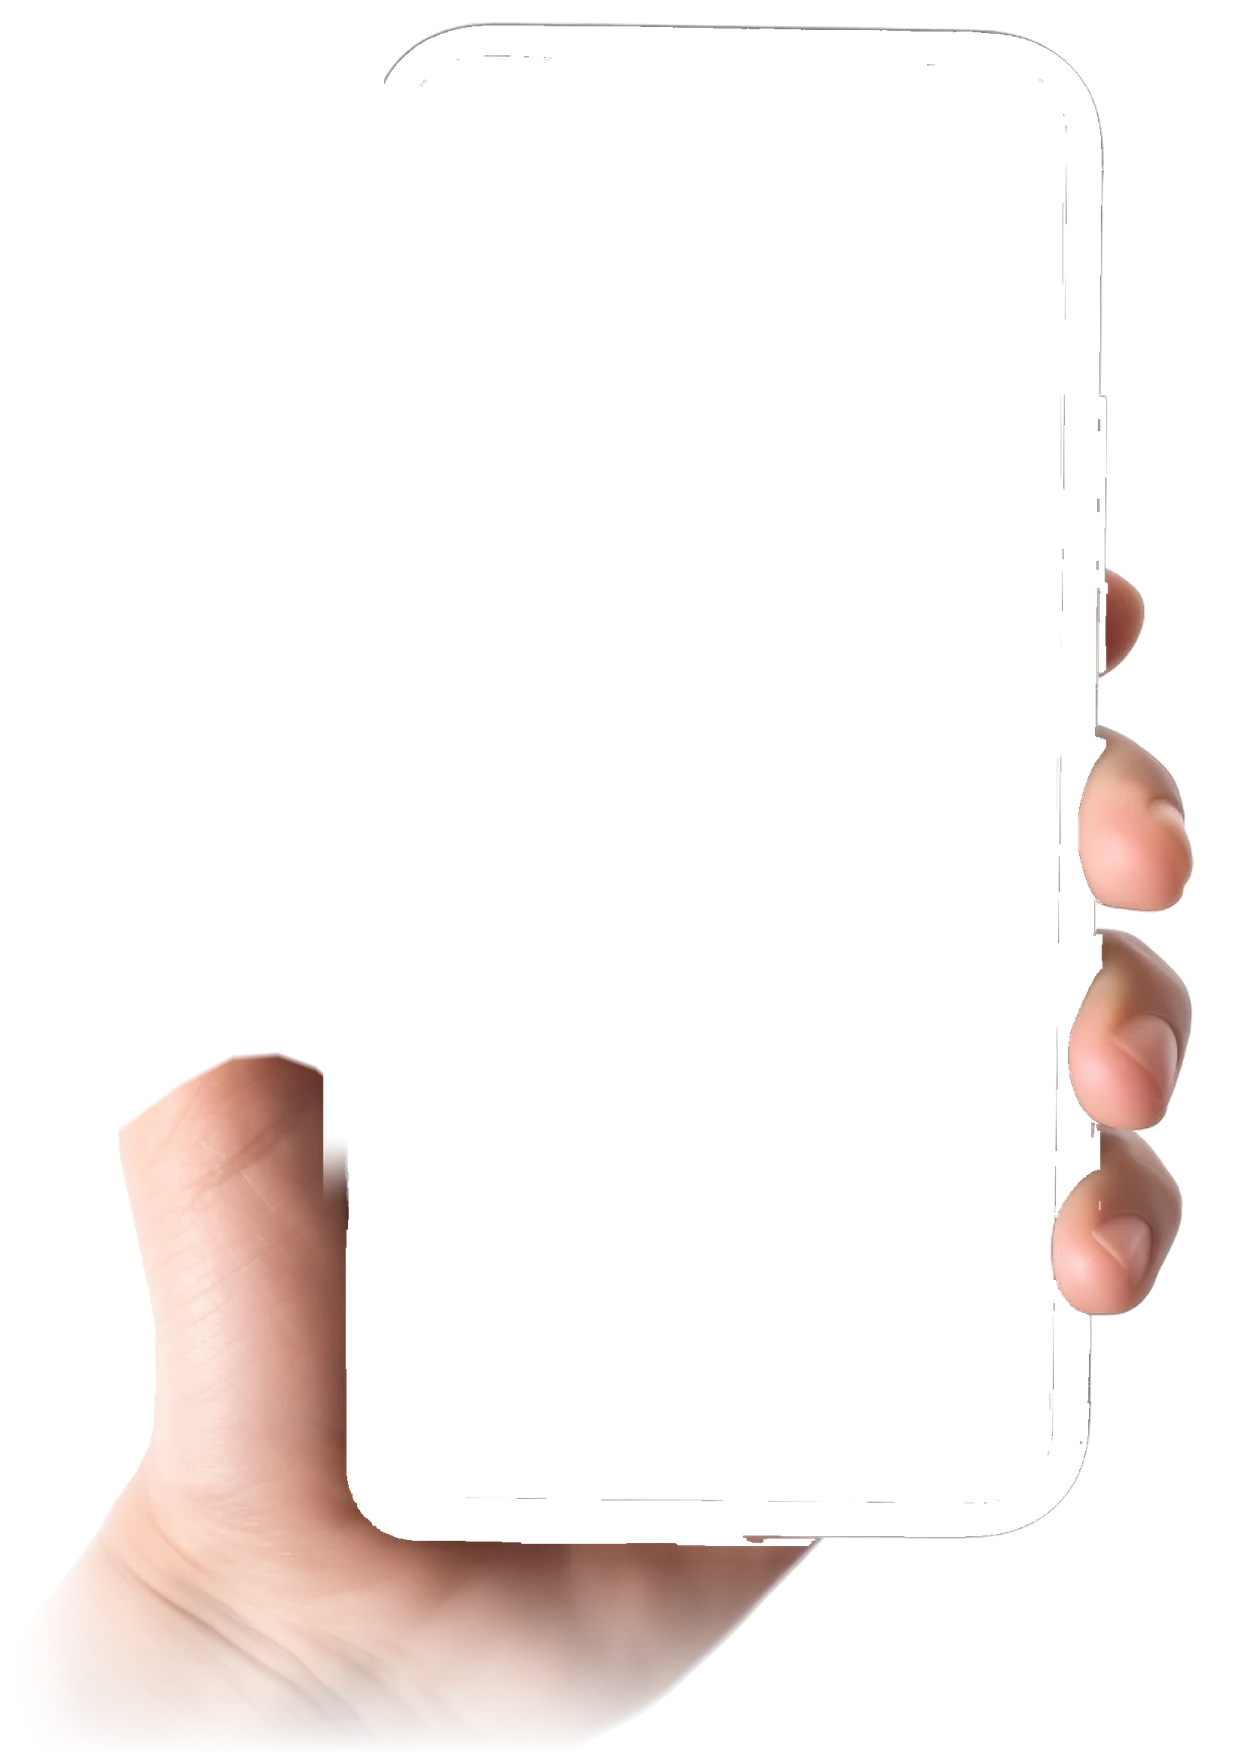
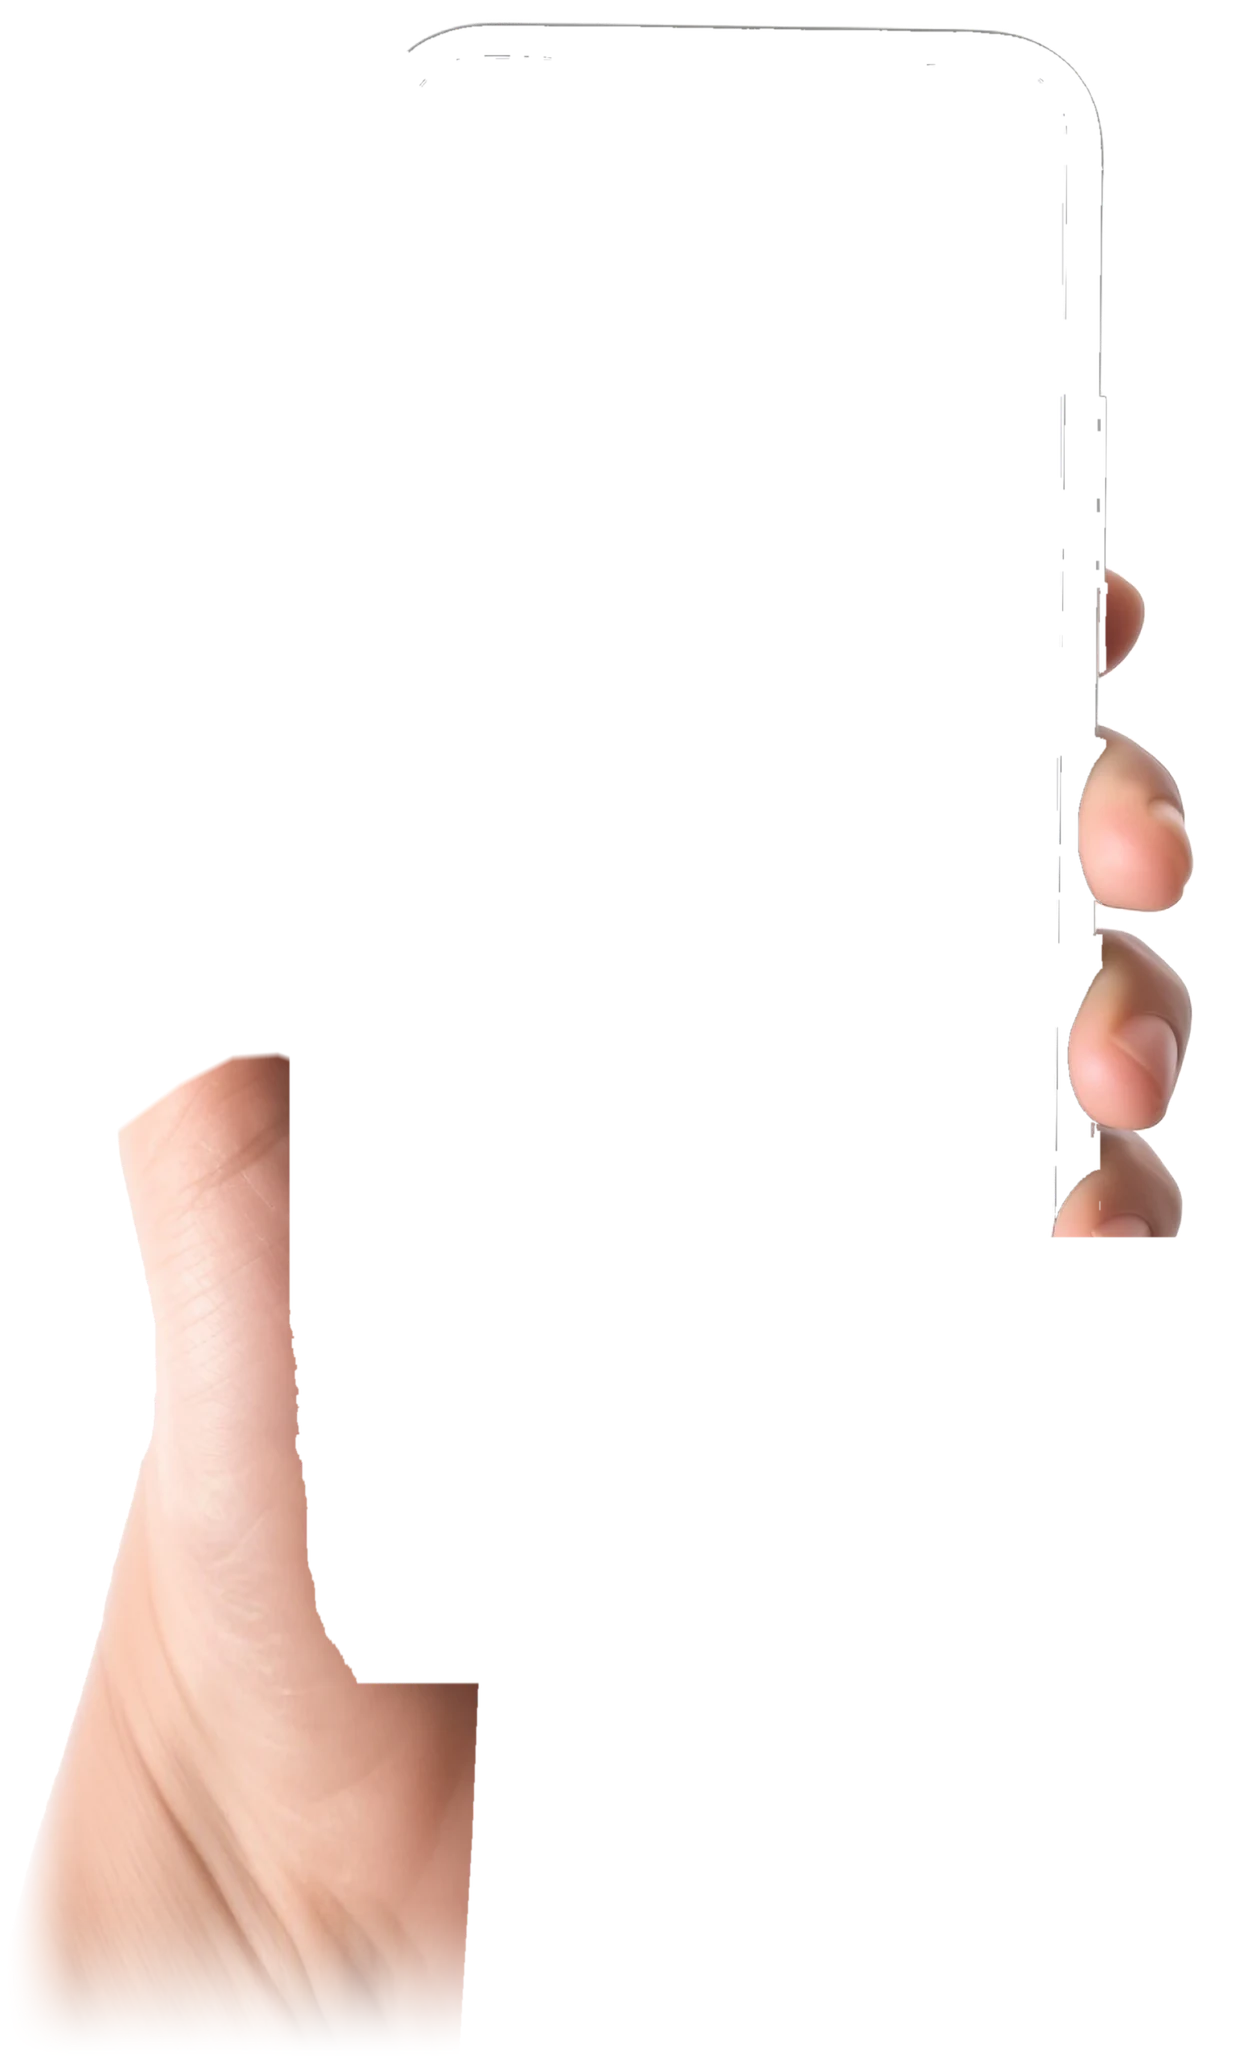
Activity cards start at the bottom of the phone and slide behind the wrist and forearm

diff --git a/index.html b/index.html
@@ -22,7 +22,7 @@
 <link rel="preconnect" href="https://fonts.googleapis.com">
 <link rel="preconnect" href="https://fonts.gstatic.com" crossorigin>
 <link rel="stylesheet" href="https://fonts.googleapis.com/css2?family=Hanken+Grotesk:wght@400;500;600;700&family=Montserrat:wght@600&display=swap">
-<link rel="stylesheet" href="styles.css?v=30">
+<link rel="stylesheet" href="styles.css?v=33">
 <script type="application/ld+json">
 {"@context":"https://schema.org","@type":"SoftwareApplication","name":"OfficeSwap","operatingSystem":"iOS","applicationCategory":"BusinessApplication","description":"Office owners offer their office on the days they're away, and OfficeSwap assigns it automatically to someone who needs one, first come, first served.","url":"https://officeswap.co/","image":"https://officeswap.co/images/og.jpg?v=2"}
 </script>
@@ -58,9 +58,9 @@
   <div class="hero-video">
     <div class="hold">
       <video src="video/request-flow.mp4?v=5" poster="video/request-flow.jpg?v=5" width="604" height="1312" autoplay muted playsinline preload="auto" aria-label="A short video of someone holding an iPhone and requesting an office in OfficeSwap with their thumb: they tap Request an Office, pick Tuesday and Wednesday, and get an office for both days."></video>
-      <img class="hold-phone" src="images/hand/phone.webp?v=5" alt="" width="1245" height="1762">
-      <img class="hold-still" src="images/hand/handhold.webp?v=14" alt="" width="1245" height="1762">
-      <canvas class="hold-hand" aria-hidden="true" data-thumb="images/hand/thumb.webp?v=4" data-palm="images/hand/palm.webp?v=4"></canvas>
+      <img class="hold-phone" src="images/hand/phone.webp?v=5" alt="" width="1245" height="2062">
+      <img class="hold-still" src="images/hand/handhold.webp?v=25" alt="" width="1245" height="2062">
+      <canvas class="hold-hand" aria-hidden="true" data-thumb="images/hand/thumb.webp?v=5" data-palm="images/hand/palm.webp?v=15"></canvas>
     </div>
     <button type="button" class="replay" hidden aria-label="Play the video again"><svg viewBox="0 0 24 24" fill="none" stroke="currentColor" stroke-width="2" stroke-linecap="round" stroke-linejoin="round" aria-hidden="true"><path d="M3.5 12a8.5 8.5 0 1 0 2.6-6.1"/><path d="M3.5 4v4.5H8"/></svg></button>
   </div>
@@ -254,9 +254,9 @@
   <div class="hero-video reel-bottom">
     <div class="hold">
       <video src="video/request-flow.mp4?v=5" poster="video/request-flow.jpg?v=5" width="604" height="1312" muted playsinline preload="metadata" data-play="in-view" aria-label="The same short video: someone holding an iPhone and requesting an office in OfficeSwap with their thumb: they tap Request an Office, pick Tuesday and Wednesday, and get an office for both days."></video>
-      <img class="hold-phone" src="images/hand/phone.webp?v=5" alt="" width="1245" height="1762">
-      <img class="hold-still" src="images/hand/handhold.webp?v=14" alt="" width="1245" height="1762">
-      <canvas class="hold-hand" aria-hidden="true" data-thumb="images/hand/thumb.webp?v=4" data-palm="images/hand/palm.webp?v=4"></canvas>
+      <img class="hold-phone" src="images/hand/phone.webp?v=5" alt="" width="1245" height="2062">
+      <img class="hold-still" src="images/hand/handhold.webp?v=25" alt="" width="1245" height="2062">
+      <canvas class="hold-hand" aria-hidden="true" data-thumb="images/hand/thumb.webp?v=5" data-palm="images/hand/palm.webp?v=15"></canvas>
     </div>
     <button type="button" class="replay" hidden aria-label="Play the video again"><svg viewBox="0 0 24 24" fill="none" stroke="currentColor" stroke-width="2" stroke-linecap="round" stroke-linejoin="round" aria-hidden="true"><path d="M3.5 12a8.5 8.5 0 1 0 2.6-6.1"/><path d="M3.5 4v4.5H8"/></svg></button>
   </div>
@@ -589,6 +589,6 @@
     document.addEventListener("click", function (e) { if (m.open && !m.contains(e.target)) m.removeAttribute("open"); });
   })();
 </script>
-<script src="hand.js?v=10" defer></script>
+<script src="hand.js?v=12" defer></script>
 </body>
 </html>

diff --git a/styles.css b/styles.css
@@ -141,7 +141,7 @@ section.band.gray { background: linear-gradient(180deg, var(--bg-2), var(--bg));
 .phones .p-center { --w: clamp(250px, 26vw, 330px); transform: translateX(-50%); z-index: 3; }
 .phones .p-left { --w: clamp(210px, 22vw, 280px); transform: translateX(-128%) translateY(70px) rotate(-6deg); z-index: 2; }
 .phones .p-right { --w: clamp(210px, 22vw, 280px); transform: translateX(28%) translateY(70px) rotate(6deg); z-index: 2; }
-.hero-video { position: relative; display: flex; justify-content: center; max-width: 1180px; margin: 64px auto 0; padding: 0 24px 24px; box-sizing: border-box; }
+.hero-video { position: relative; display: flex; justify-content: center; max-width: 1180px; margin: 64px auto 0; padding: 0 24px 0; box-sizing: border-box; }
 .hero-video .replay {
   position: absolute; bottom: 50%; width: 48px; height: 48px; border: 0; border-radius: 50%;
   display: grid; place-items: center; cursor: pointer; color: #1d1d1f;
@@ -154,14 +154,15 @@ section.band.gray { background: linear-gradient(180deg, var(--bg-2), var(--bg));
 .hero-video .replay:focus-visible { outline: 2px solid #1d1d1f; outline-offset: 3px; }
 .hero-video .replay svg { width: 22px; height: 22px; }
 .hero { overflow: visible; overflow-x: clip; }
-.hero-video { --hw: clamp(420px, 44vw, 600px); }
-.hold { position: relative; width: var(--hw); flex: none; aspect-ratio: 1245 / 1762; left: calc(var(--hw) * -0.086); }
+:root { --hw: clamp(420px, 44vw, 600px); }
+.hero-video { z-index: 3; }
+.hold { position: relative; width: var(--hw); flex: none; aspect-ratio: 1245 / 2062; left: calc(var(--hw) * -0.086); }
 .hold video { position: absolute; left: 0; top: 0; transform-origin: 0 0; object-fit: fill; background: #f2f2f7; }
-.hold-phone, .hold-still { position: absolute; inset: 0; width: 100%; height: 100%; pointer-events: none; }
+.hold-phone, .hold-still { position: absolute; left: 0; top: 0; width: 100%; height: auto; pointer-events: none; }
 .hold-hand { position: absolute; top: 0; pointer-events: none; }
 .hold.live .hold-still { visibility: hidden; }
-.hero-video .replay { z-index: 6; left: calc(50% + var(--hw) * 0.40 + 12px); }
-@media (max-width: 700px) { .hero-video .replay { left: auto; right: 16px; bottom: 34%; width: 44px; height: 44px; } }
+.hero-video .replay { z-index: 6; left: calc(50% + var(--hw) * 0.40 + 12px); top: calc(var(--hw) * 0.6); bottom: auto; }
+@media (max-width: 700px) { .hero-video .replay { left: auto; right: 16px; top: calc(var(--hw) * 0.6); width: 44px; height: 44px; } }
 .iphone > video { aspect-ratio: 604 / 1312; object-fit: cover; }
 .phones::after { content: ""; position: absolute; left: 0; right: 0; bottom: 0; height: 180px; background: linear-gradient(transparent, var(--bg)); z-index: 4; }
 @media (max-width: 700px) {
@@ -171,7 +172,9 @@ section.band.gray { background: linear-gradient(180deg, var(--bg-2), var(--bg));
 }
 
 /* ---------- Activity marquee ---------- */
-.activity { position: relative; padding: 30px 0 10px; overflow: hidden; }
+.activity { position: relative; z-index: 1; padding: 30px 0 10px; overflow: hidden;
+  /* The cards start just under the hero phone and slide behind the forearm, which runs on past them. */
+  margin-top: calc(var(--hw) * -0.449 - 20px); }
 .activity::before, .activity::after { content: ""; position: absolute; top: 0; bottom: 0; width: 18%; z-index: 2; pointer-events: none; }
 .activity::before { left: 0; background: linear-gradient(90deg, var(--bg), transparent); }
 .activity::after { right: 0; background: linear-gradient(-90deg, var(--bg), transparent); }

diff --git a/hand.js b/hand.js
@@ -5,7 +5,7 @@
    clock: reaches over, presses each button, flicks the form up, and returns to rest on the edge. */
 (function () {
   // ---- Photo geometry, in pixels of the 1245x1762 layers ----
-  var IMG_W = 1245, IMG_H = 1762;
+  var IMG_W = 1245, IMG_H = 2062;
   var SCREEN = { tl: [406.7, 57.0], tr: [1066.1, 68.3], br: [1049.7, 1503.0], bl: [390.0, 1495.0] };
   var THUMB_BOX = [133, 580, 360, 1133];     // where the thumb piece sits at rest
   var PIVOT = [240, 1125];               // its base knuckle, hidden under the palm
